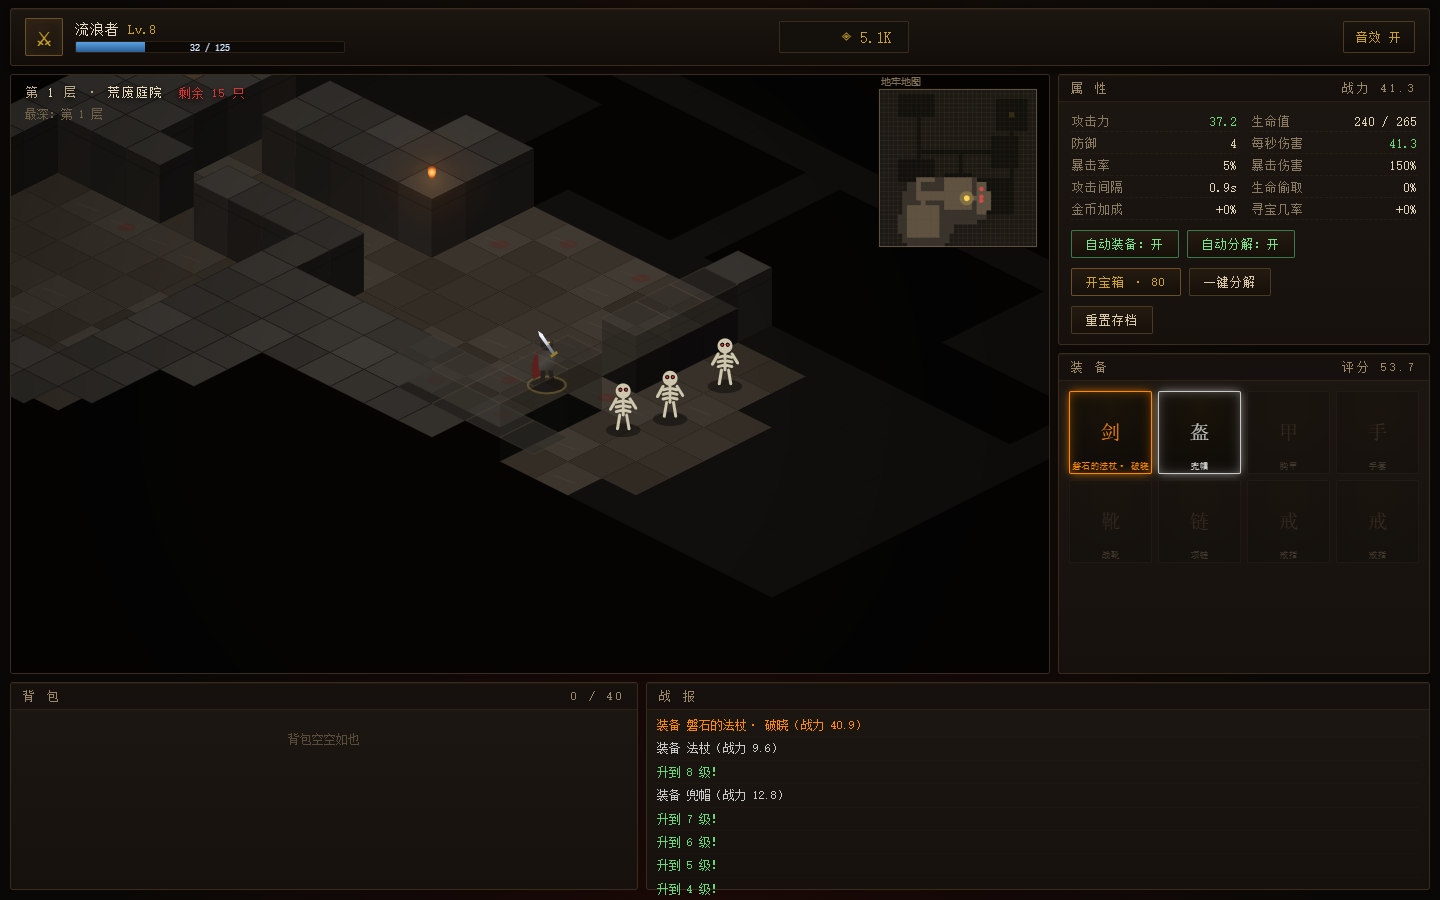
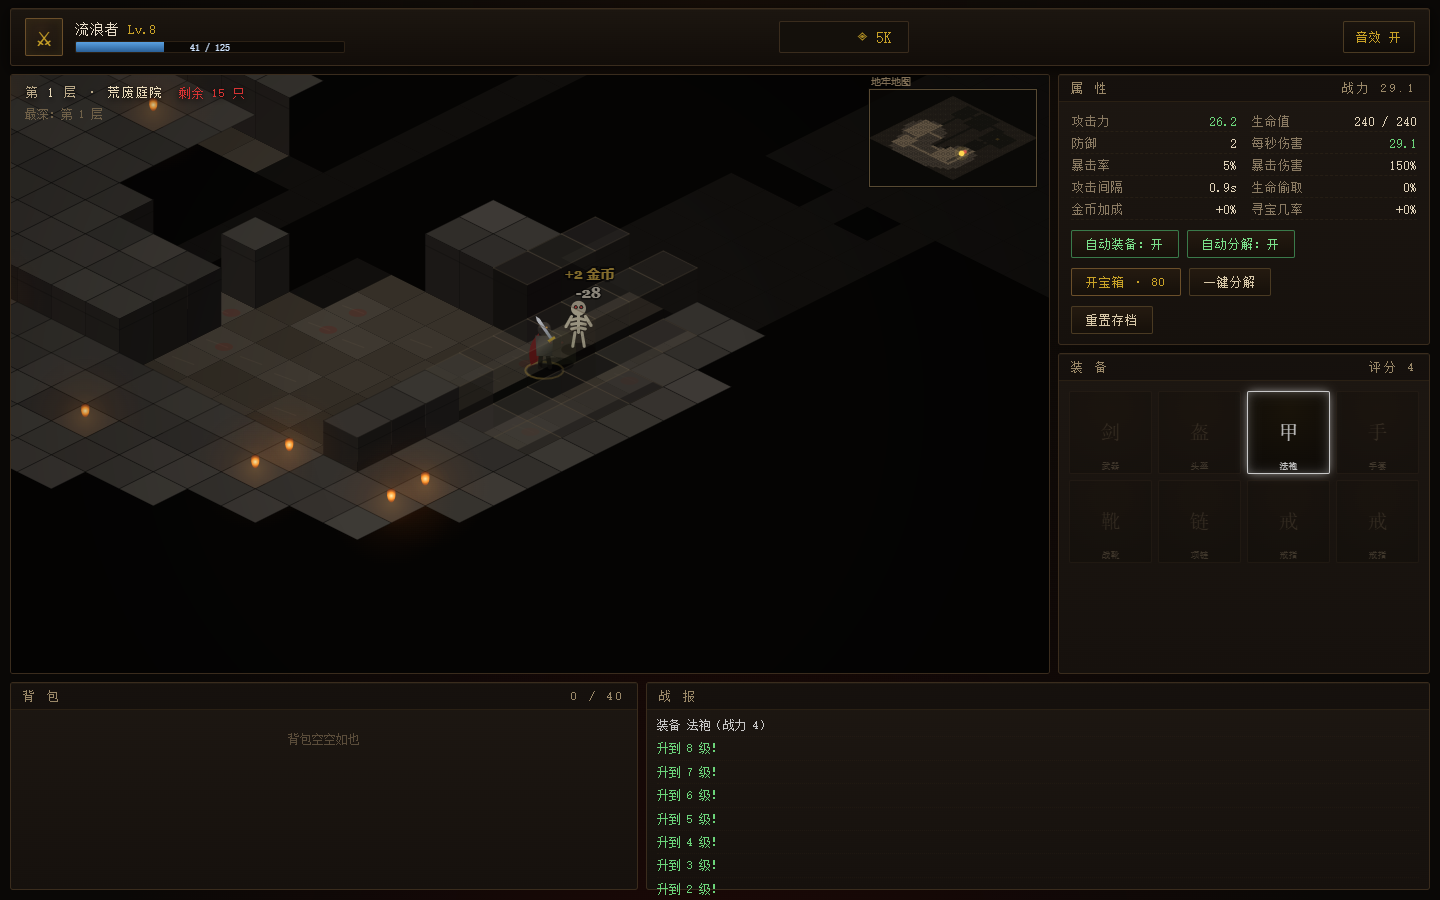
fix: 小地图改为等距投影，方位与主画面一致
之前小地图是正交俯视（+x 向右、+y 向下），主画面是等距投影（+x 右下、+y 左下），
两者差 45°，看着别扭。现在小地图也用同一套等距变换，方向和主画面完全对齐。

diff --git a/js/ui.js b/js/ui.js
@@ -60,7 +60,7 @@
     mmDirty: true,
     mmLastX: 0, mmLastY: 0,
     mmCanvas: null, mmCtx: null,
-    mmSize: 158,
+    mmW: 158, mmH: 93,
 
     init(canvas) {
       this.canvas = canvas;
@@ -82,11 +82,11 @@
       this.canvas.style.width = this.W + 'px';
       this.canvas.style.height = this.H + 'px';
       this.ctx.setTransform(this.dpr, 0, 0, this.dpr, 0, 0);
-      this.mmSize = Math.round(Math.max(104, Math.min(158, this.W * 0.26)));
+      this.mmW = Math.round(Math.max(110, Math.min(168, this.W * 0.28)));
+      this.mmH = Math.round(this.mmW / 2 + 14);
       if (this.mmCanvas) {
-        const px2 = Math.round(this.mmSize * this.dpr);
-        this.mmCanvas.width = px2;
-        this.mmCanvas.height = px2;
+        this.mmCanvas.width = Math.round(this.mmW * this.dpr);
+        this.mmCanvas.height = Math.round(this.mmH * this.dpr);
         this.mmDirty = true;
       }
     },
@@ -289,23 +289,28 @@
       this.drawMinimap(ctx, map, run);
     },
 
-    /* ---------- 小地图 ---------- */
+    /* ---------- 小地图（等距投影，和主画面方位一致） ---------- */
     drawMinimap(ctx, map, run) {
-      const size = this.mmSize;
-      const x0 = this.W - size - 14;
+      const mw = this.mmW, mh = this.mmH;
+      const x0 = this.W - mw - 14;
       const y0 = 14;
-      const cell = size / Math.max(map.w, map.h);
+      const cw = mw / map.w;
+      const ch = cw / 2;
+      const cyc = (map.w + map.h - 2) / 2;
 
       if (this.mmDirty) {
-        this.rebuildMinimap(map, size, cell);
+        this.rebuildMinimap(map, mw, mh, cw, ch, cyc);
         this.mmDirty = false;
       }
 
       ctx.save();
       // 底板
-      ctx.fillStyle = 'rgba(10,8,6,0.82)';
-      ctx.fillRect(x0 - 1, y0 - 1, size + 2, size + 2);
-      ctx.drawImage(this.mmCanvas, x0, y0, size, size);
+      ctx.fillStyle = 'rgba(10,8,6,0.84)';
+      ctx.fillRect(x0 - 1, y0 - 1, mw + 2, mh + 2);
+      ctx.drawImage(this.mmCanvas, x0, y0, mw, mh);
+
+      const toX = function (gx, gy) { return x0 + mw / 2 + (gx - gy) * cw / 2; };
+      const toY = function (gx, gy) { return y0 + mh / 2 + (gx + gy - cyc) * ch / 2; };
 
       // 怪物点（只画已探索区域）
       for (let i = 0; i < run.monsters.length; i++) {
@@ -315,25 +320,27 @@
         if (!map.explored[ti]) continue;
         ctx.fillStyle = m.isBoss ? '#ff5a2a' : '#d24a4a';
         ctx.beginPath();
-        ctx.arc(x0 + (m.x + 0.5) * cell, y0 + (m.y + 0.5) * cell, m.isBoss ? 3.4 : 2.1, 0, Math.PI * 2);
+        ctx.arc(toX(m.x, m.y), toY(m.x, m.y), m.isBoss ? 3.2 : 1.9, 0, Math.PI * 2);
         ctx.fill();
       }
 
       // 玩家（呼吸光点）
+      const px = toX(run.pos.x, run.pos.y);
+      const py = toY(run.pos.x, run.pos.y);
       const pulse = 0.65 + Math.sin(this.t * 4) * 0.35;
-      ctx.fillStyle = 'rgba(255, 214, 90, ' + (0.35 * pulse) + ')';
+      ctx.fillStyle = 'rgba(255, 214, 90, ' + (0.32 * pulse) + ')';
       ctx.beginPath();
-      ctx.arc(x0 + run.pos.x * cell, y0 + run.pos.y * cell, 7, 0, Math.PI * 2);
+      ctx.arc(px, py, 7, 0, Math.PI * 2);
       ctx.fill();
       ctx.fillStyle = '#ffd750';
       ctx.beginPath();
-      ctx.arc(x0 + run.pos.x * cell, y0 + run.pos.y * cell, 2.8, 0, Math.PI * 2);
+      ctx.arc(px, py, 2.8, 0, Math.PI * 2);
       ctx.fill();
 
       // 边框 + 标题
       ctx.strokeStyle = 'rgba(140,116,80,0.6)';
       ctx.lineWidth = 1;
-      ctx.strokeRect(x0 + 0.5, y0 + 0.5, size - 1, size - 1);
+      ctx.strokeRect(x0 + 0.5, y0 + 0.5, mw - 1, mh - 1);
       ctx.font = '10px "Songti SC", Georgia, serif';
       ctx.textAlign = 'left';
       ctx.fillStyle = 'rgba(150,130,100,0.85)';
@@ -341,23 +348,28 @@
       ctx.restore();
     },
 
-    rebuildMinimap(map, size, cell) {
+    rebuildMinimap(map, mw, mh, cw, ch, cyc) {
       const c = this.mmCtx;
       c.setTransform(this.dpr, 0, 0, this.dpr, 0, 0);
-      c.clearRect(0, 0, size, size);
+      c.clearRect(0, 0, mw, mh);
       for (let y = 0; y < map.h; y++) {
         for (let x = 0; x < map.w; x++) {
           const i = y * map.w + x;
           const t = map.tiles[i];
           const seen = map.explored[i];
-          if (t === M.TILE.WALL) {
-            c.fillStyle = seen ? '#3a332b' : 'rgba(66,58,48,0.34)';
-          } else if (t === M.TILE.EXIT) {
-            c.fillStyle = seen ? '#c9a227' : 'rgba(120,96,40,0.4)';
-          } else {
-            c.fillStyle = seen ? '#5f5241' : 'rgba(70,60,48,0.16)';
-          }
-          c.fillRect(x * cell, y * cell, cell + 0.6, cell + 0.6);
+          // 等距坐标：和主画面同一个 45° 视角
+          const cx = mw / 2 + (x - y) * cw / 2;
+          const cy = mh / 2 + (x + y - cyc) * ch / 2;
+          c.beginPath();
+          c.moveTo(cx, cy - ch / 2 - 0.15);
+          c.lineTo(cx + cw / 2 + 0.25, cy);
+          c.lineTo(cx, cy + ch / 2 + 0.15);
+          c.lineTo(cx - cw / 2 - 0.25, cy);
+          c.closePath();
+          if (t === M.TILE.WALL) c.fillStyle = seen ? '#3a332b' : 'rgba(66,58,48,0.34)';
+          else if (t === M.TILE.EXIT) c.fillStyle = seen ? '#c9a227' : 'rgba(120,96,40,0.4)';
+          else c.fillStyle = seen ? '#5f5241' : 'rgba(70,60,48,0.16)';
+          c.fill();
         }
       }
     },
